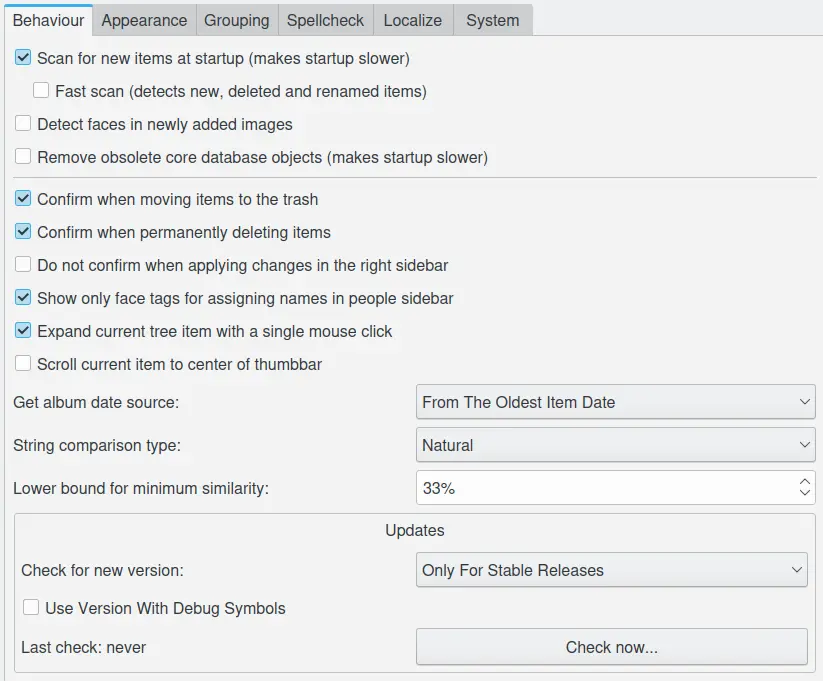
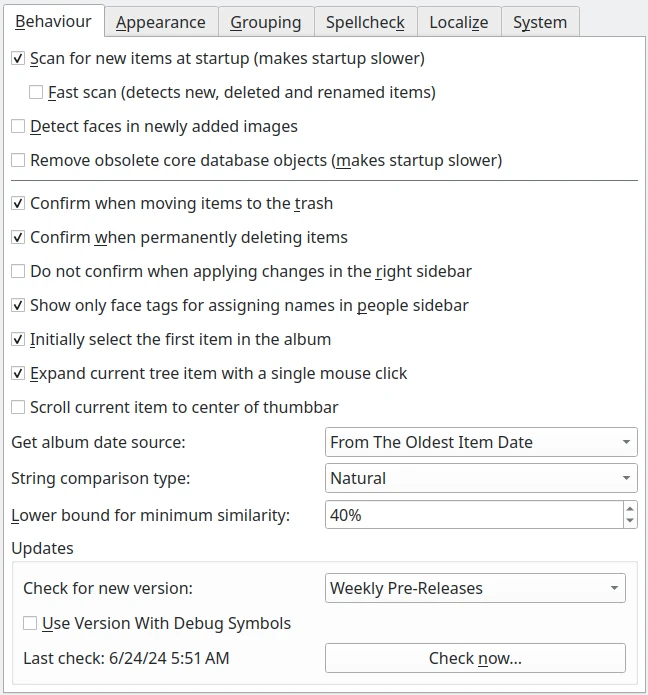
update setup dialog page for 8.5.0 update option descriptions in Setup/Misc/System

Changed region(s): [[0.0, 0.0617, 1.0, 1.0], [0.0, 0.0, 0.8951, 0.2467]]

diff --git a/setup_application/miscs_settings.rst b/setup_application/miscs_settings.rst
@@ -50,6 +50,8 @@ The editorial changes done through the right sidebar can be quietly applied by d
 
 The option **Show only face tags for assigning names in people sidebar** will restrict people tree-view contents to face tags available when you assign a name to an **Unconfirmed** face. If you want to learn more details about face management, take a look to :ref:`this section of the manual <people_view>`.
 
+The option **Initially select the first item in the album** will force to highlight the top left icon-view thumbnail when a new album is selected.
+
 The option **Expand current tree item with a single mouse click** allows to customize how the mouse button will be used to expand a nested album branch.
 
 With the **Scroll current item to center of thumbbar** setting, you can force thumbbar to center current selected item with mouse pointer on the center of visible area.
